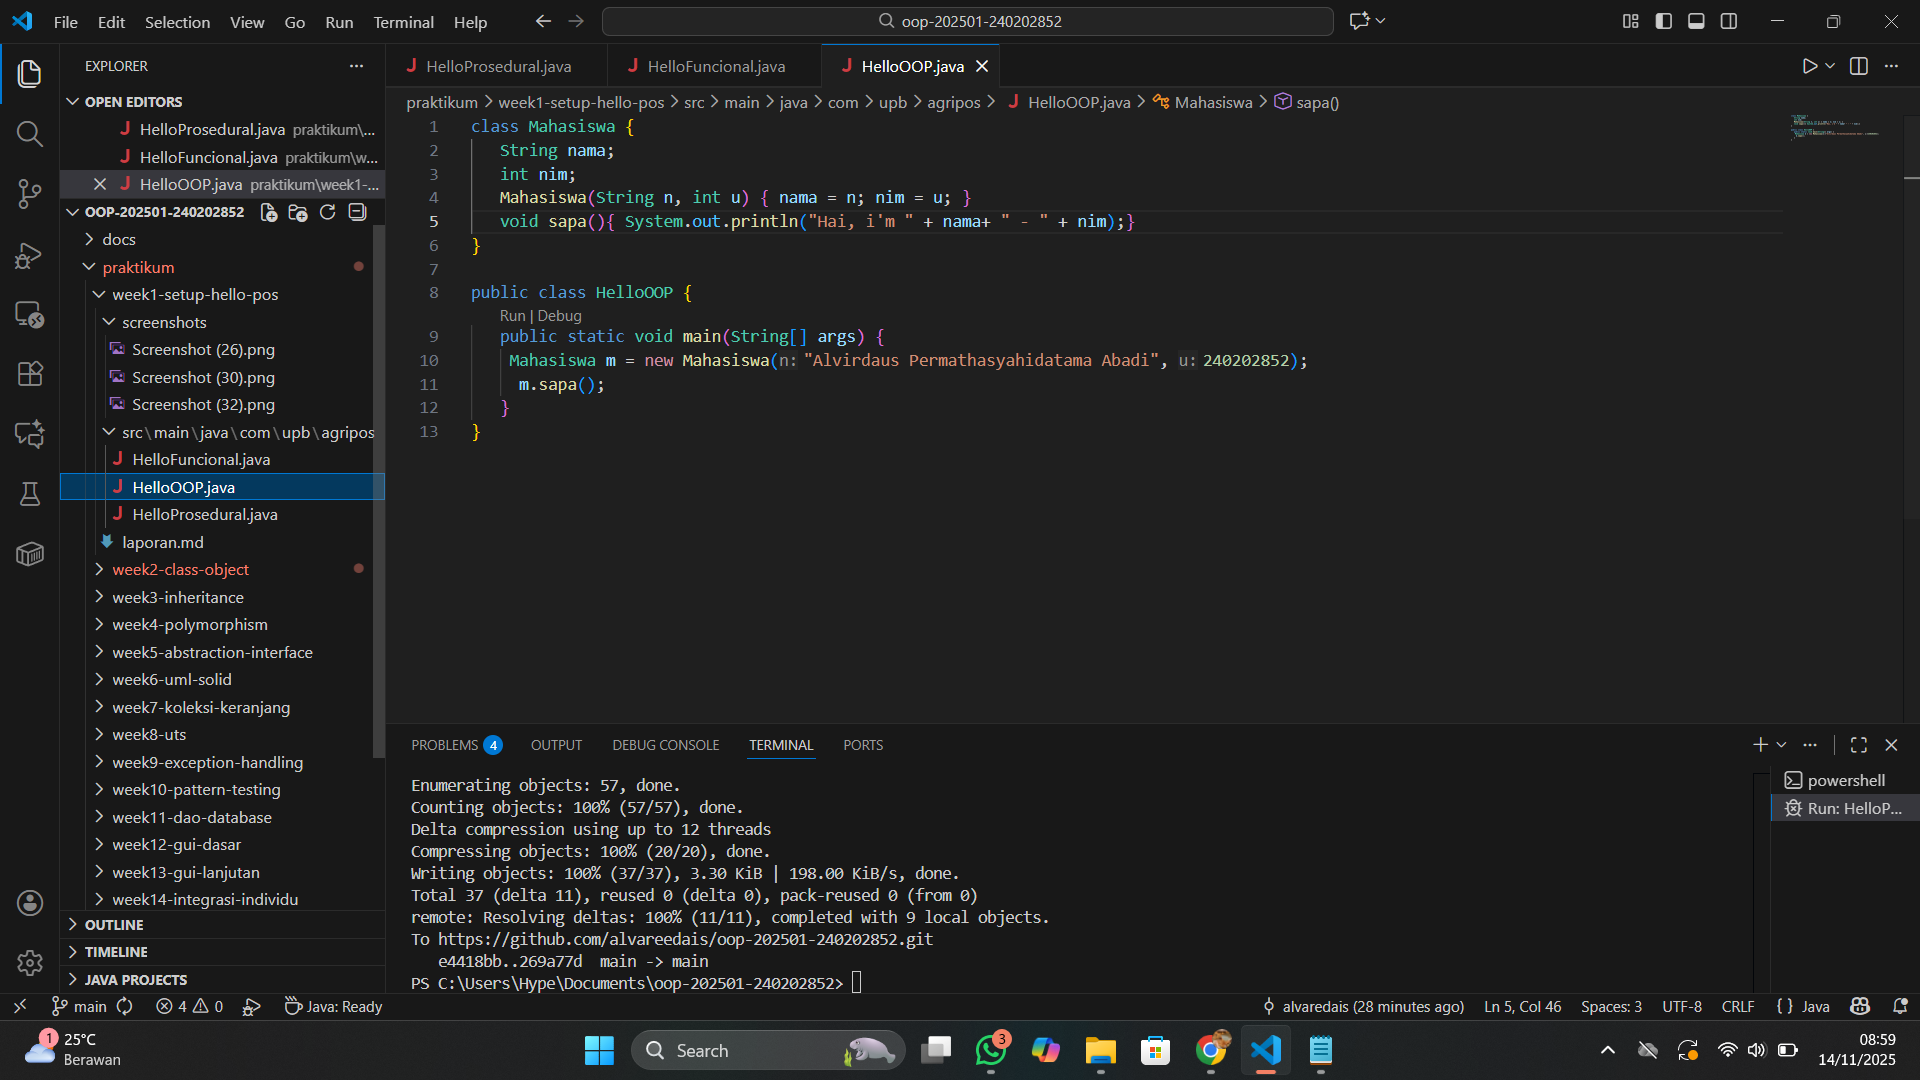
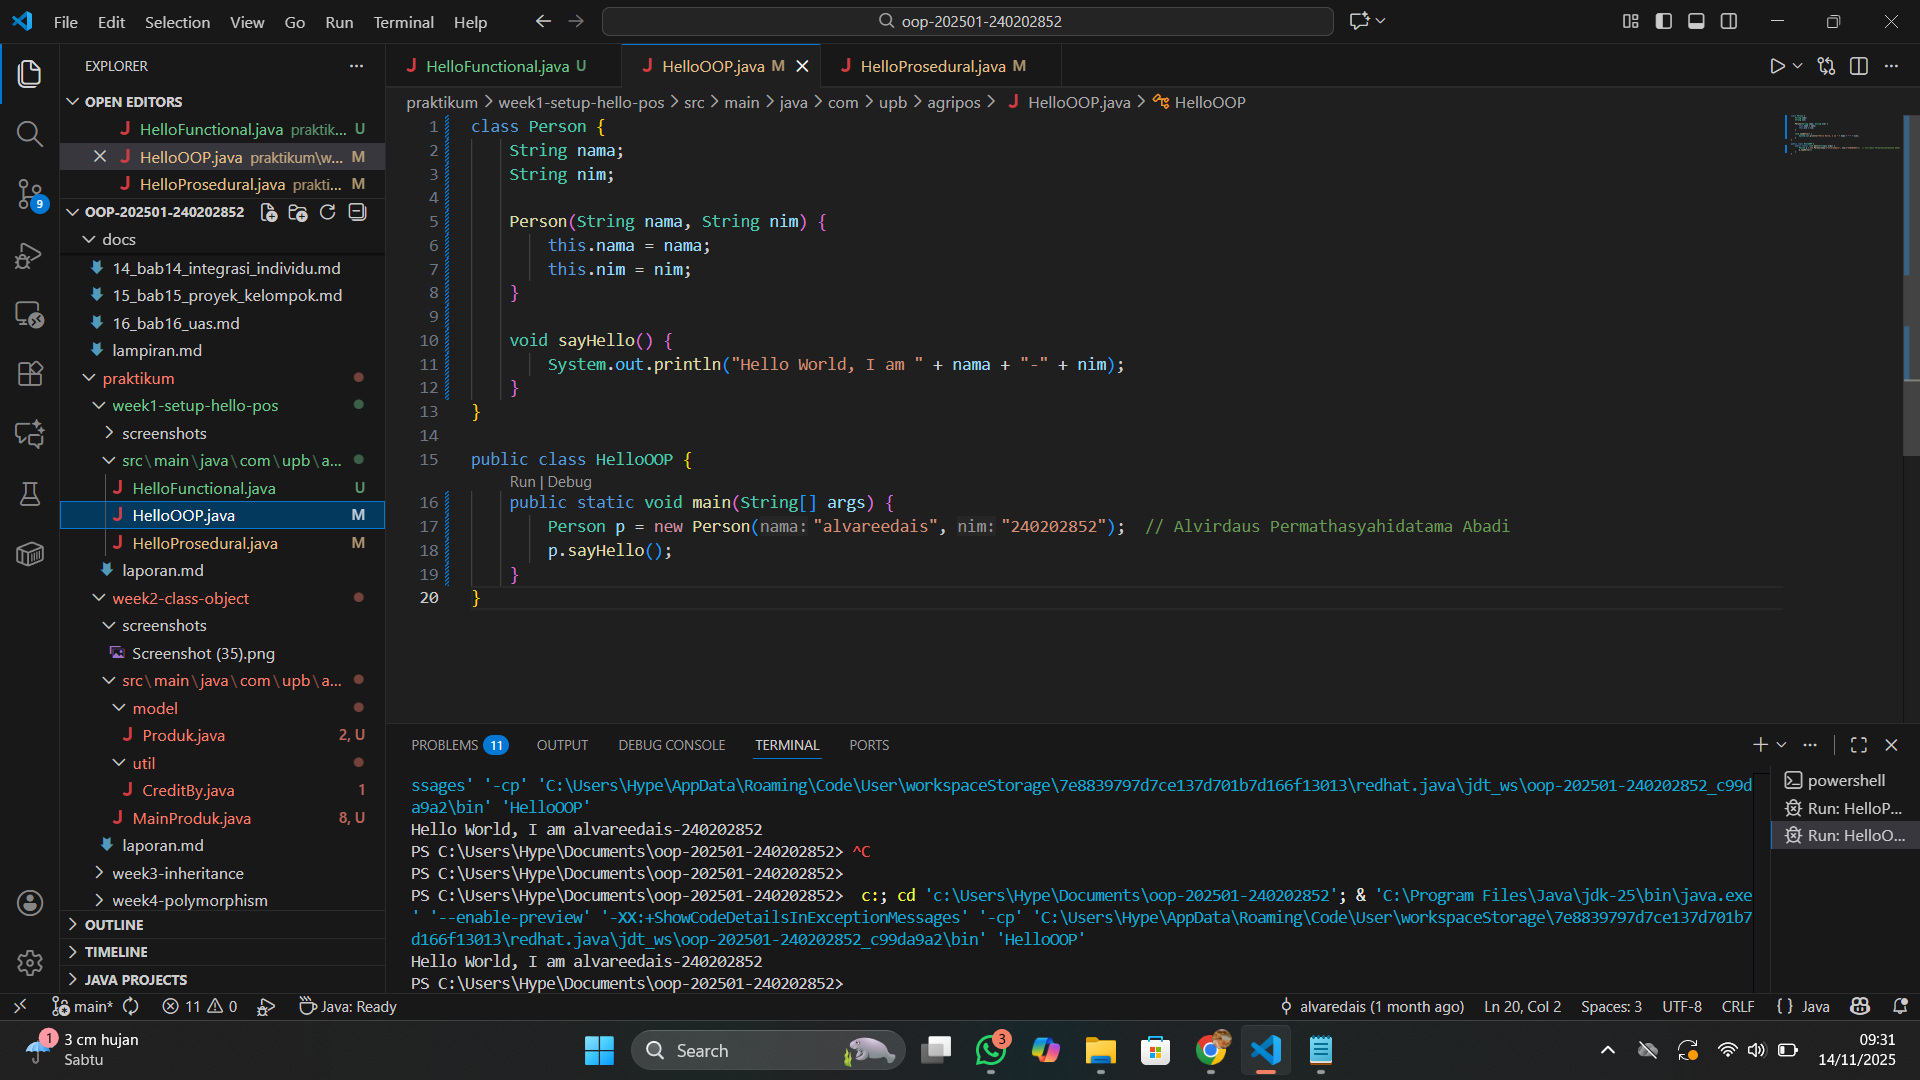
NEW CHANGES

diff --git a/praktikum/week1-setup-hello-pos/src/main/java/com/upb/agripos/HelloOOP.java b/praktikum/week1-setup-hello-pos/src/main/java/com/upb/agripos/HelloOOP.java
@@ -1,13 +1,20 @@
-class Mahasiswa {
-   String nama;
-   int nim;
-   Mahasiswa(String n, int u) { nama = n; nim = u; }
-   void sapa(){ System.out.println("Hai, i'm " + nama+ " - " + nim);}
+class Person {
+    String nama;
+    String nim;
+
+    Person(String nama, String nim) {
+        this.nama = nama;
+        this.nim = nim;
+    }
+
+    void sayHello() {
+        System.out.println("Hello World, I am " + nama + "-" + nim);
+    }
 }
 
 public class HelloOOP {
-   public static void main(String[] args) {
-    Mahasiswa m = new Mahasiswa("Alvirdaus Permathasyahidatama Abadi", 240202852);
-     m.sapa();
-   }
+    public static void main(String[] args) {
+        Person p = new Person("alvareedais", "240202852");  // Alvirdaus Permathasyahidatama Abadi
+        p.sayHello();
+    }
 }

diff --git a/praktikum/week1-setup-hello-pos/src/main/java/com/upb/agripos/HelloProsedural.java b/praktikum/week1-setup-hello-pos/src/main/java/com/upb/agripos/HelloProsedural.java
@@ -1,9 +1,10 @@
 public  class HelloProsedural {
 
     public static void main(String[] args) {
+      String nama = "alvareedais";     // Alvirdaus Permathasyahidatama Abadi
       String nim = "240202852";
-      String nama = "Alvirdaus Permathasyahidatama Abadi";
       
-      System.out.println("Hai, i'm " + nama+ " - " + nim);
+      
+      System.out.println("Hello World, I am " + nama+ "-" + nim);
    }
 }

diff --git a/praktikum/week1-setup-hello-pos/src/main/java/com/upb/agripos/HelloFunctional.java b/praktikum/week1-setup-hello-pos/src/main/java/com/upb/agripos/HelloFunctional.java
@@ -1,0 +1,10 @@
+
+import java.util.function.Supplier;
+
+public class HelloFunctional {
+    public static void main(String[] args) {
+        Supplier<String> hello = () -> "Hello World, I am alvareedais-240202852";       // Alvirdaus Permathasyahidatama Abadi
+        System.out.println(hello.get());    
+    }
+}
+
